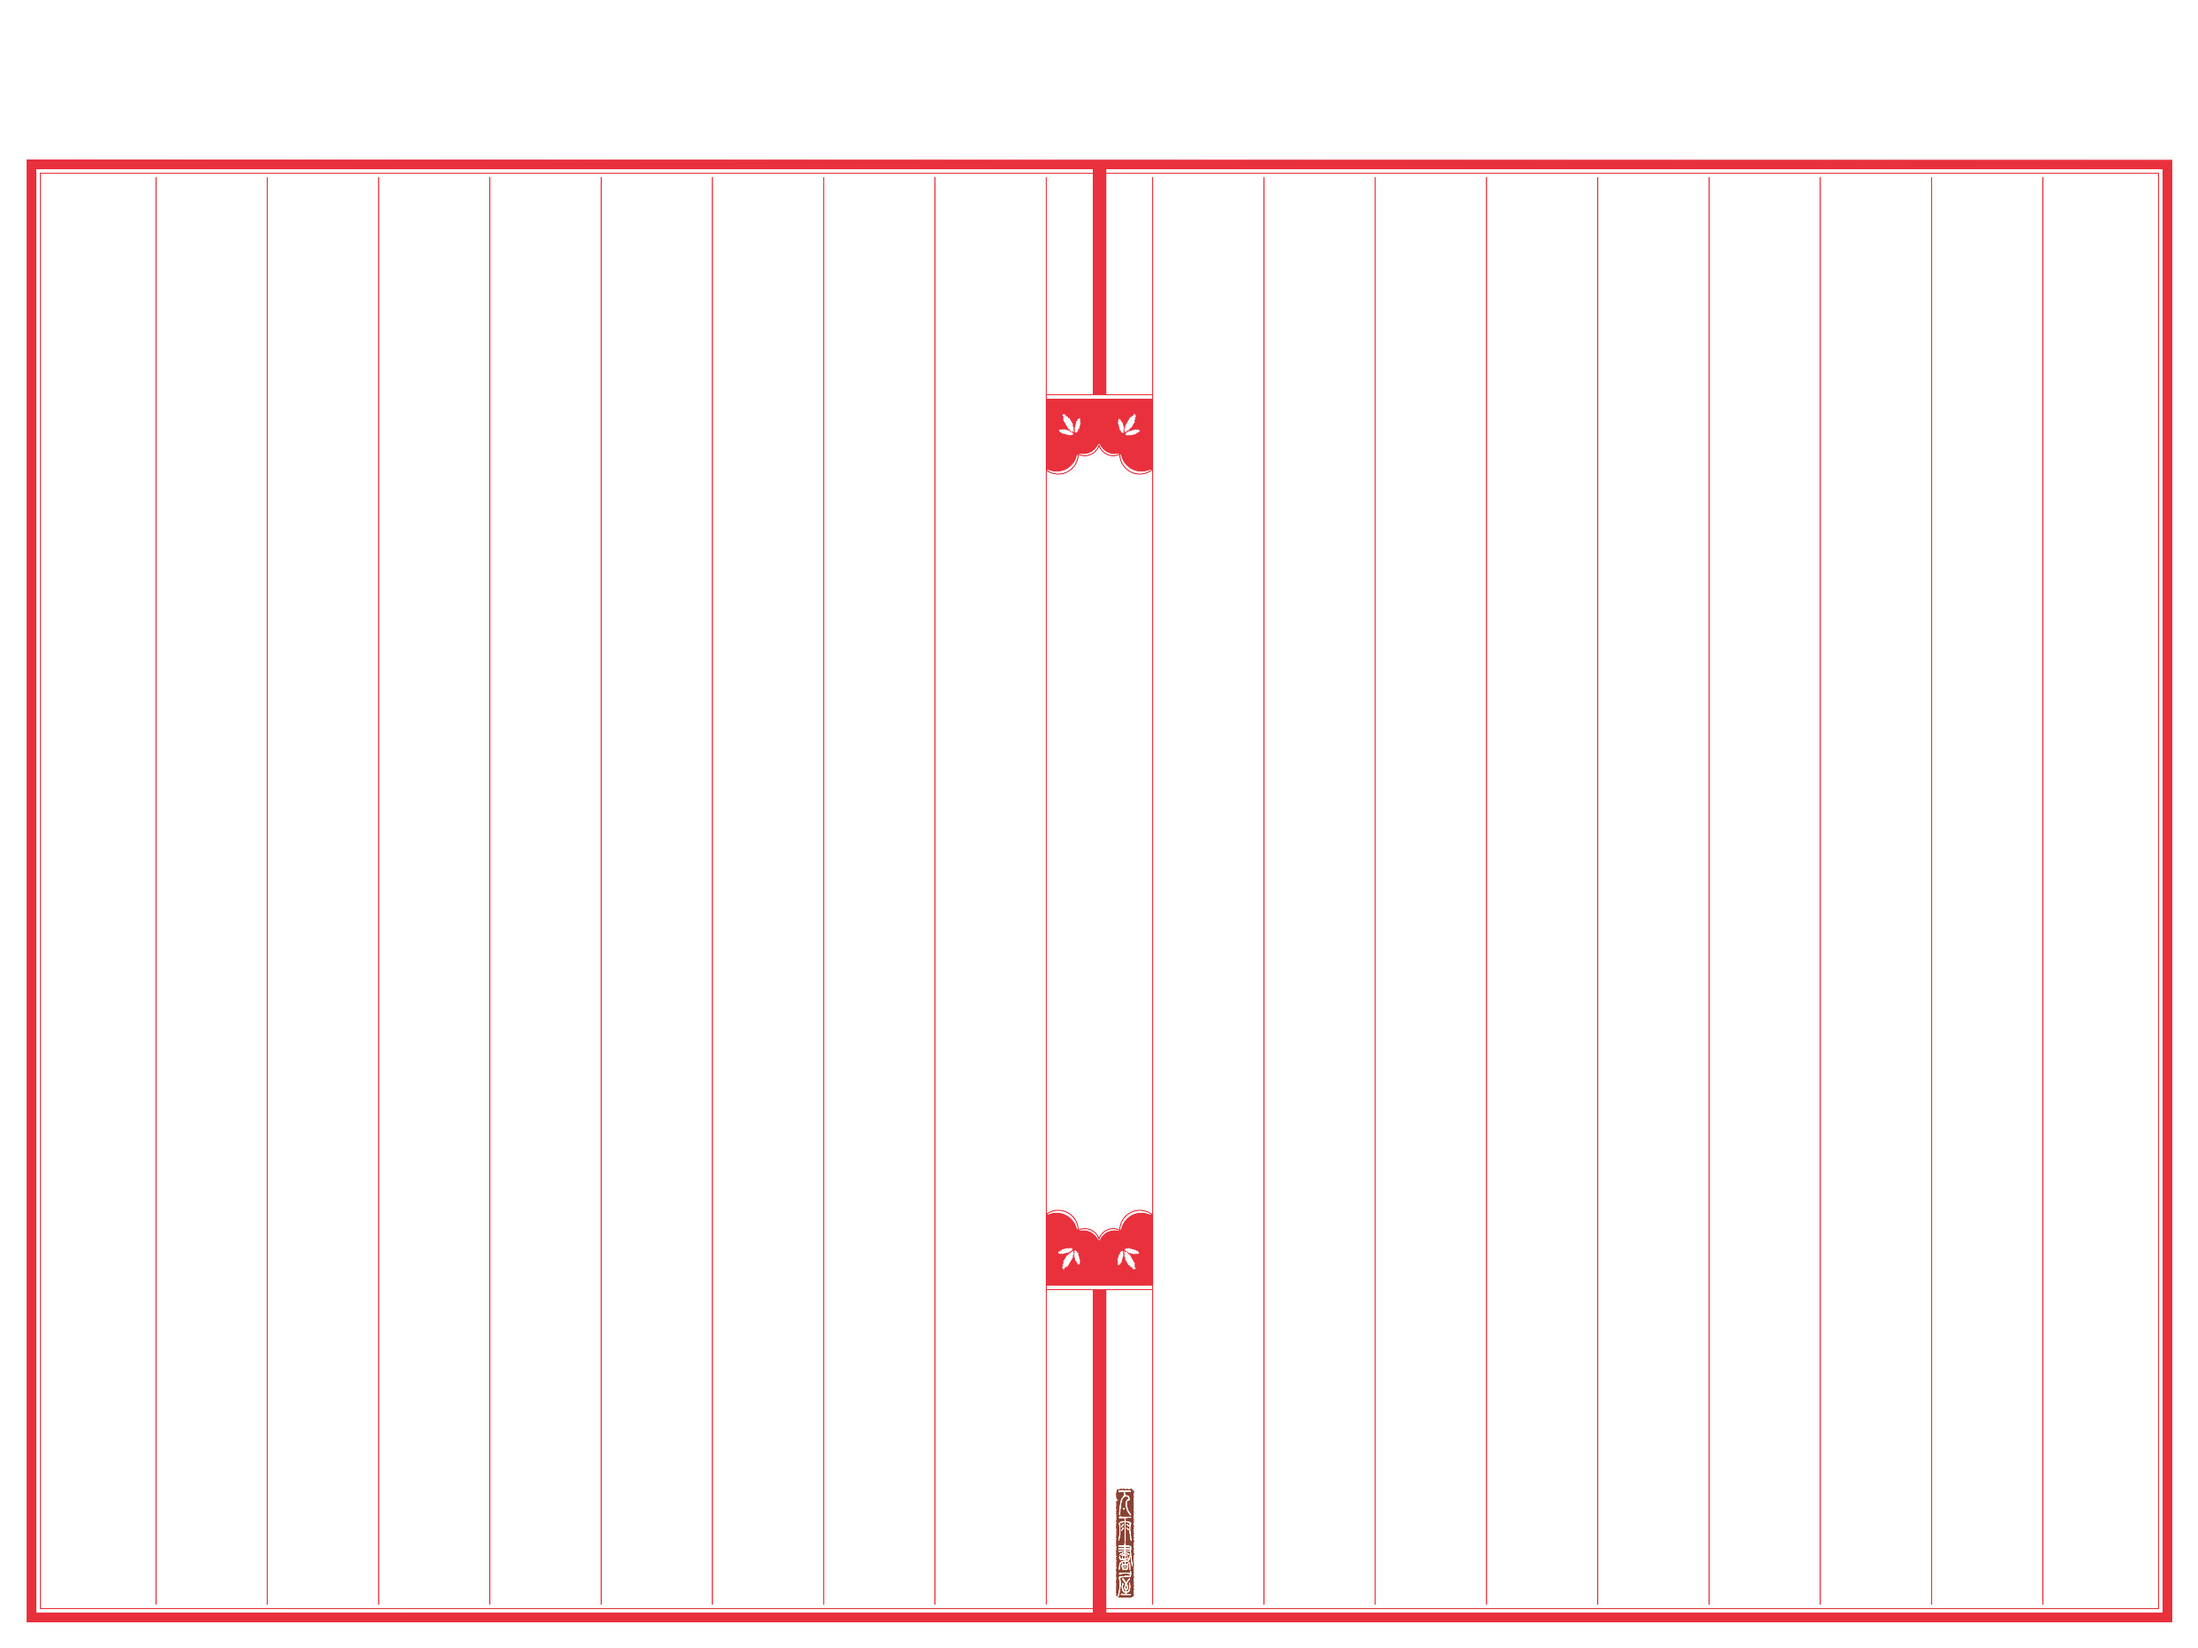
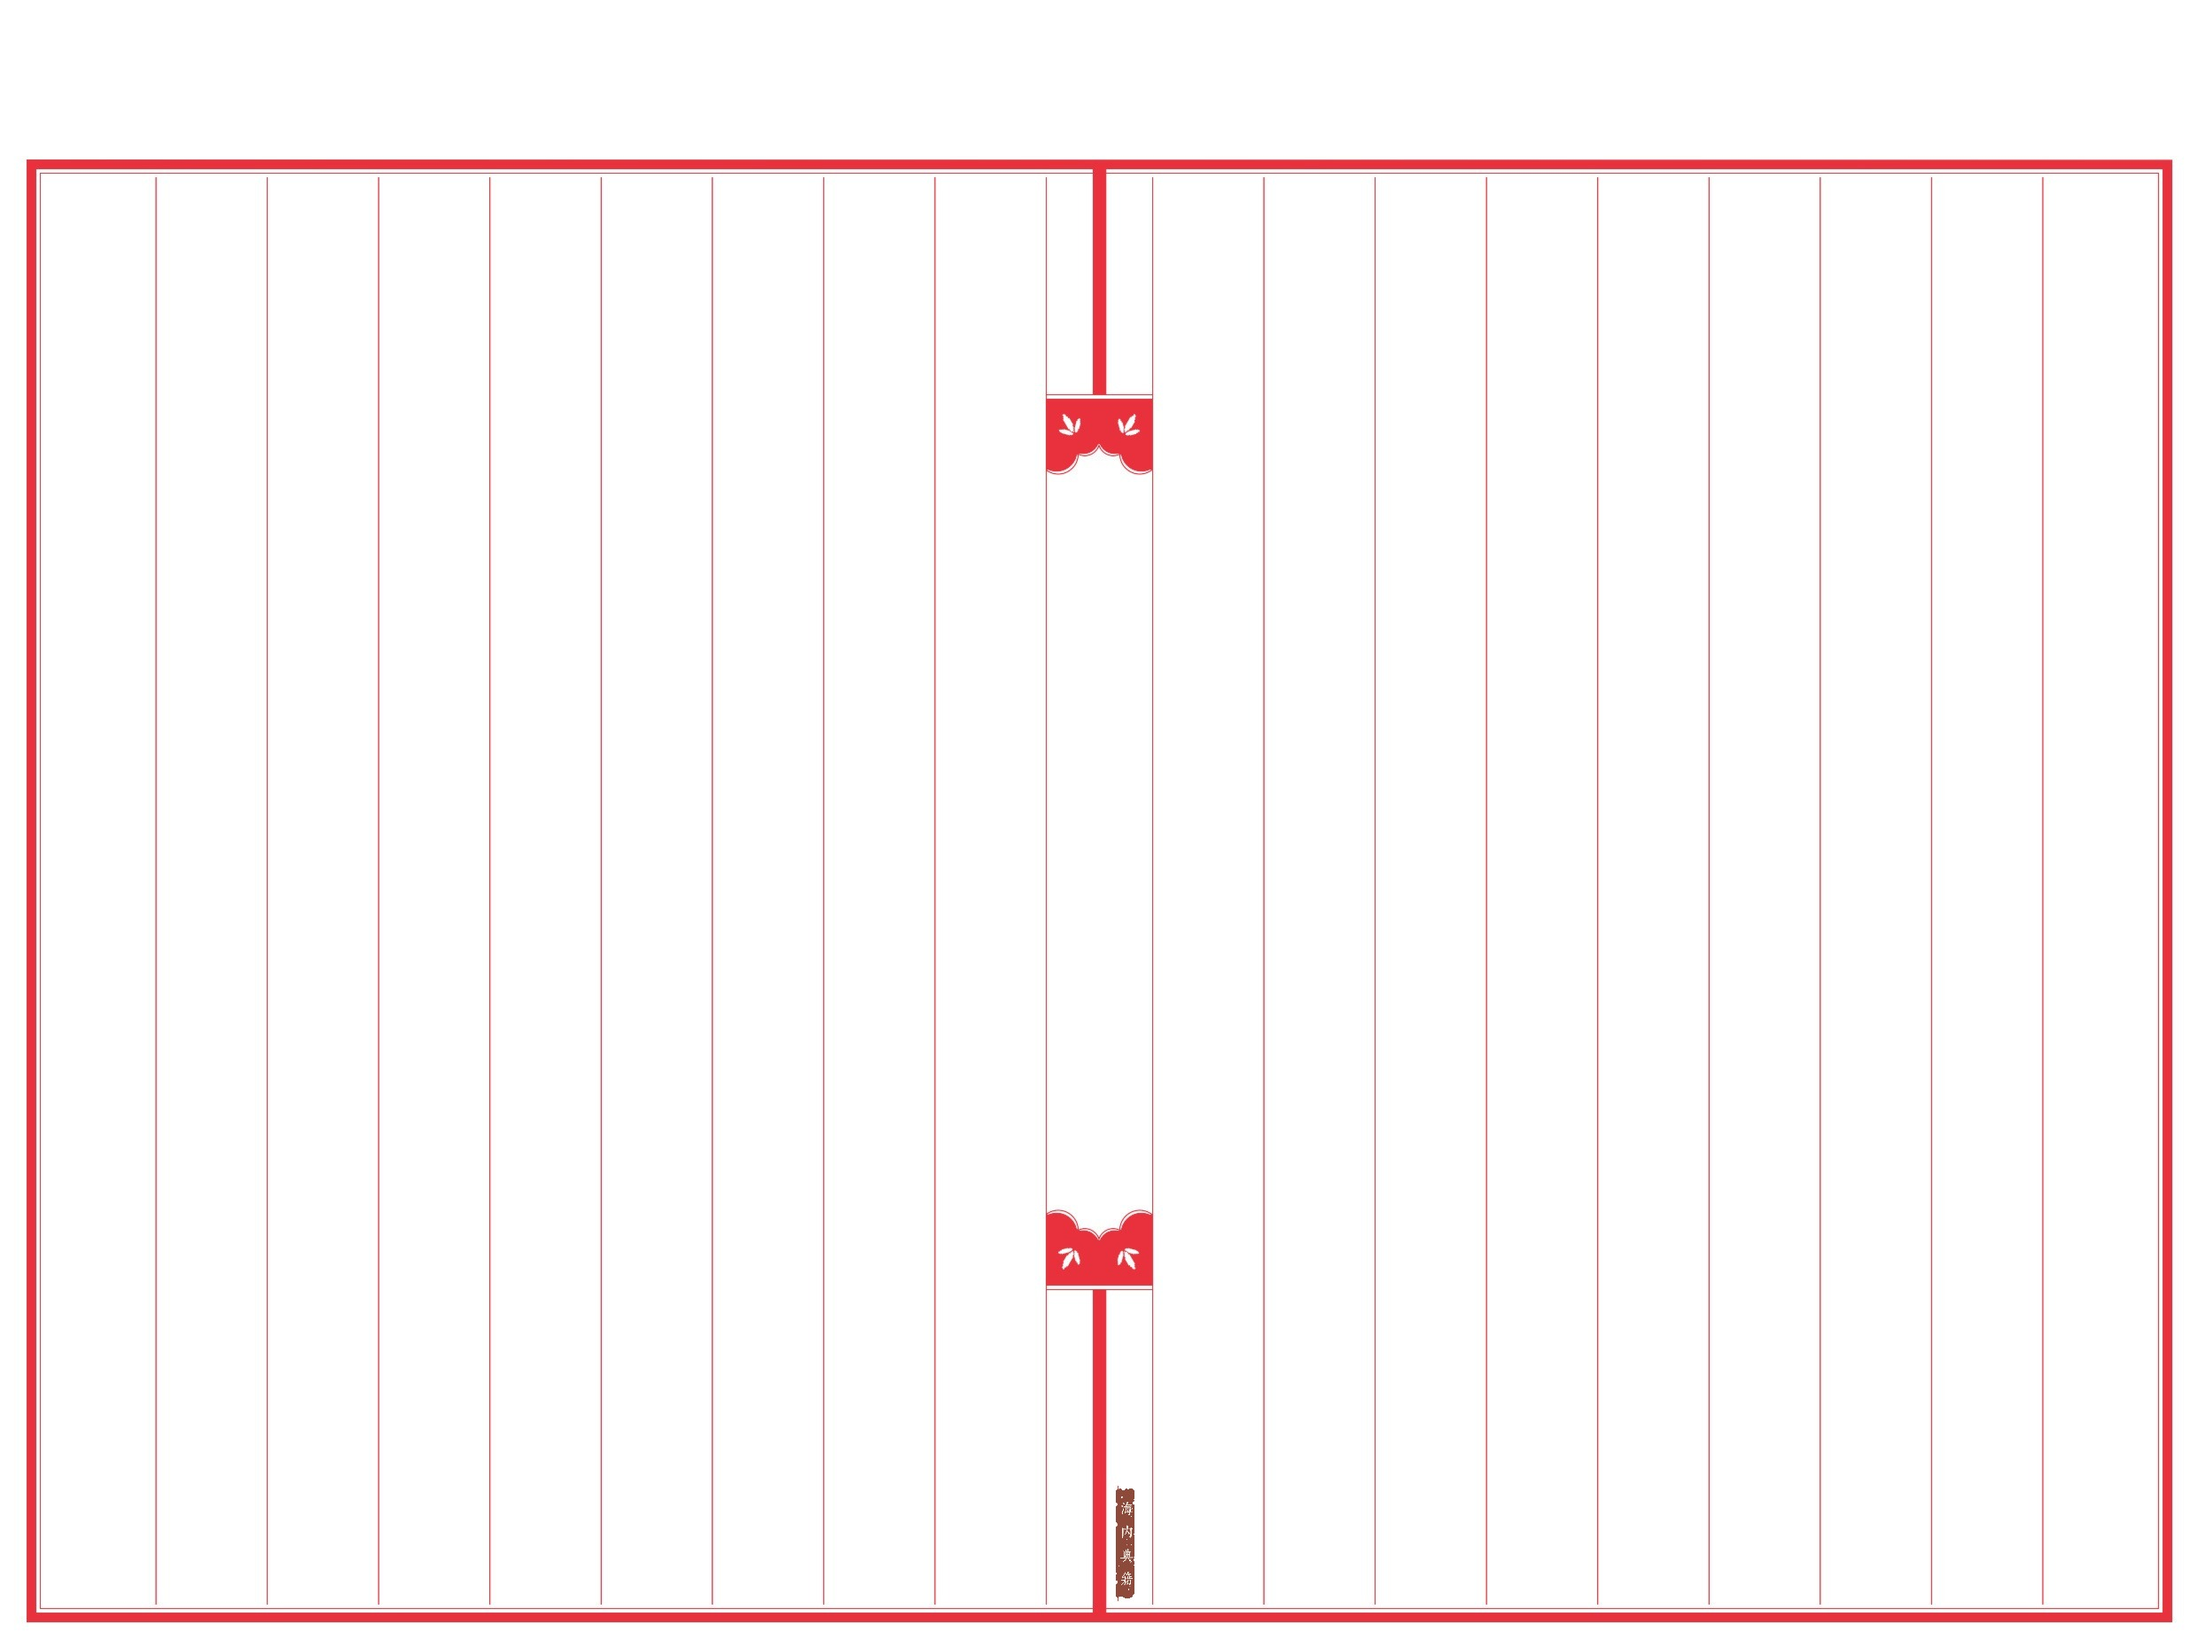
清除全部画布残留兀雨印，统一补刻海内典籍藏版印；印章脚本参数化

diff --git a/Tools/scripts/make-hainei-seal.ts b/Tools/scripts/make-hainei-seal.ts
@@ -1,7 +1,8 @@
-// 生成「海内典籍」藏版印并烙入书叶画布（canvas/24_black_blank.jpg）：
-//   规格取自被移除的原兀雨書屋印 —— 21×123px @ (1259,1680)，赭红底 #8d493a 白文，
-//   竖排单列四字，圆角残边。印章以 6 倍超采样绘制后缩放烙入，保证抗锯齿。
-// 用法：npx tsx scripts/make-hainei-seal.ts [--canvas <画布路径>]
+// 生成「海内典籍」藏版印并烙入书叶画布（canvas/<id>.jpg）：
+//   白文竖排四字、赭红底 #8d493a、圆角残边，6 倍超采样绘制后缩放烙入。
+// 用法：npx tsx scripts/make-hainei-seal.ts --canvas canvas/<id>.jpg --x 1259 --y 1680 --w 21 --h 123
+//   各画布原兀雨印位：24_black_blank 1259,1680,21,123 | 24_black/18_red 1259,1680,21,124
+//   mr_4/mr_5/28_paper 1253,1680,24,128 | 24_paper 1257,1680,23,126 | iphone15pm 1408,1110,24,124
 
 import { writeFile } from 'node:fs/promises';
 import path from 'node:path';
@@ -9,10 +10,21 @@ import { createCanvas, loadImage } from '@napi-rs/canvas';
 import { resolveRepoRoot } from './repo.js';
 
 const REPO = resolveRepoRoot();
-const CANVAS_PATH = path.join(REPO, 'canvas', '24_black_blank.jpg');
+
+const arg = (n: string, d?: string) => {
+  const i = process.argv.indexOf(`--${n}`);
+  return i >= 0 ? process.argv[i + 1] : d;
+};
 
 // 印面规格（画布坐标系）
-const SEAL = { x: 1259, y: 1680, w: 21, h: 123, color: '#8d493a' };
+const SEAL = {
+  x: parseInt(arg('x', '1259')!, 10),
+  y: parseInt(arg('y', '1680')!, 10),
+  w: parseInt(arg('w', '21')!, 10),
+  h: parseInt(arg('h', '123')!, 10),
+  color: '#8d493a',
+};
+const CANVAS_PATH = path.resolve(REPO, 'canvas', arg('canvas', '24_black_blank.jpg')!);
 const TEXT = '海内典籍';
 const SS = 6; // 超采样倍率
 
@@ -82,17 +94,13 @@ function drawSeal(): ReturnType<typeof createCanvas> {
 }
 
 async function main() {
-  const canvasPath = process.argv.includes('--canvas')
-    ? path.resolve(process.argv[process.argv.indexOf('--canvas') + 1])
-    : CANVAS_PATH;
-
   // 字体注册（印章文字与正文同源：启功体）
   const { GlobalFonts } = await import('@napi-rs/canvas');
   GlobalFonts.registerFromPath(path.join(REPO, 'fonts', 'qiji-combo.ttf'), 'qiji');
 
   const seal = drawSeal();
 
-  const img = await loadImage(canvasPath);
+  const img = await loadImage(CANVAS_PATH);
   const cv = createCanvas(img.width, img.height);
   const ctx = cv.getContext('2d');
   ctx.imageSmoothingEnabled = true;
@@ -101,16 +109,17 @@ async function main() {
   ctx.drawImage(seal, SEAL.x, SEAL.y, SEAL.w, SEAL.h);
 
   const jpg = await cv.encode('jpeg', 92);
-  await writeFile(canvasPath, jpg);
-  console.log(`已烙入「${TEXT}」印：${canvasPath}（印面 ${SEAL.w}×${SEAL.h} @ ${SEAL.x},${SEAL.y}，${(jpg.length / 1024).toFixed(0)} KB）`);
+  await writeFile(CANVAS_PATH, jpg);
+  console.log(`已烙入「${TEXT}」印：${CANVAS_PATH}（印面 ${SEAL.w}×${SEAL.h} @ ${SEAL.x},${SEAL.y}，${(jpg.length / 1024).toFixed(0)} KB）`);
 
   // 复核裁剪图
   const check = createCanvas(SEAL.w * 12, SEAL.h * 12);
   const cctx = check.getContext('2d');
   cctx.imageSmoothingEnabled = true;
   cctx.drawImage(cv, SEAL.x - 8, SEAL.y - 12, SEAL.w + 16, SEAL.h + 24, 0, 0, check.width, check.height);
-  await writeFile('out/hainei-seal-check.png', check.toBuffer('image/png'));
-  console.log('复核图：out/hainei-seal-check.png');
+  const checkName = 'out/hainei-seal-check-' + path.basename(CANVAS_PATH, '.jpg') + '.png';
+  await writeFile(checkName, check.toBuffer('image/png'));
+  console.log('复核图：' + checkName);
 }
 
 main().catch((err) => {
